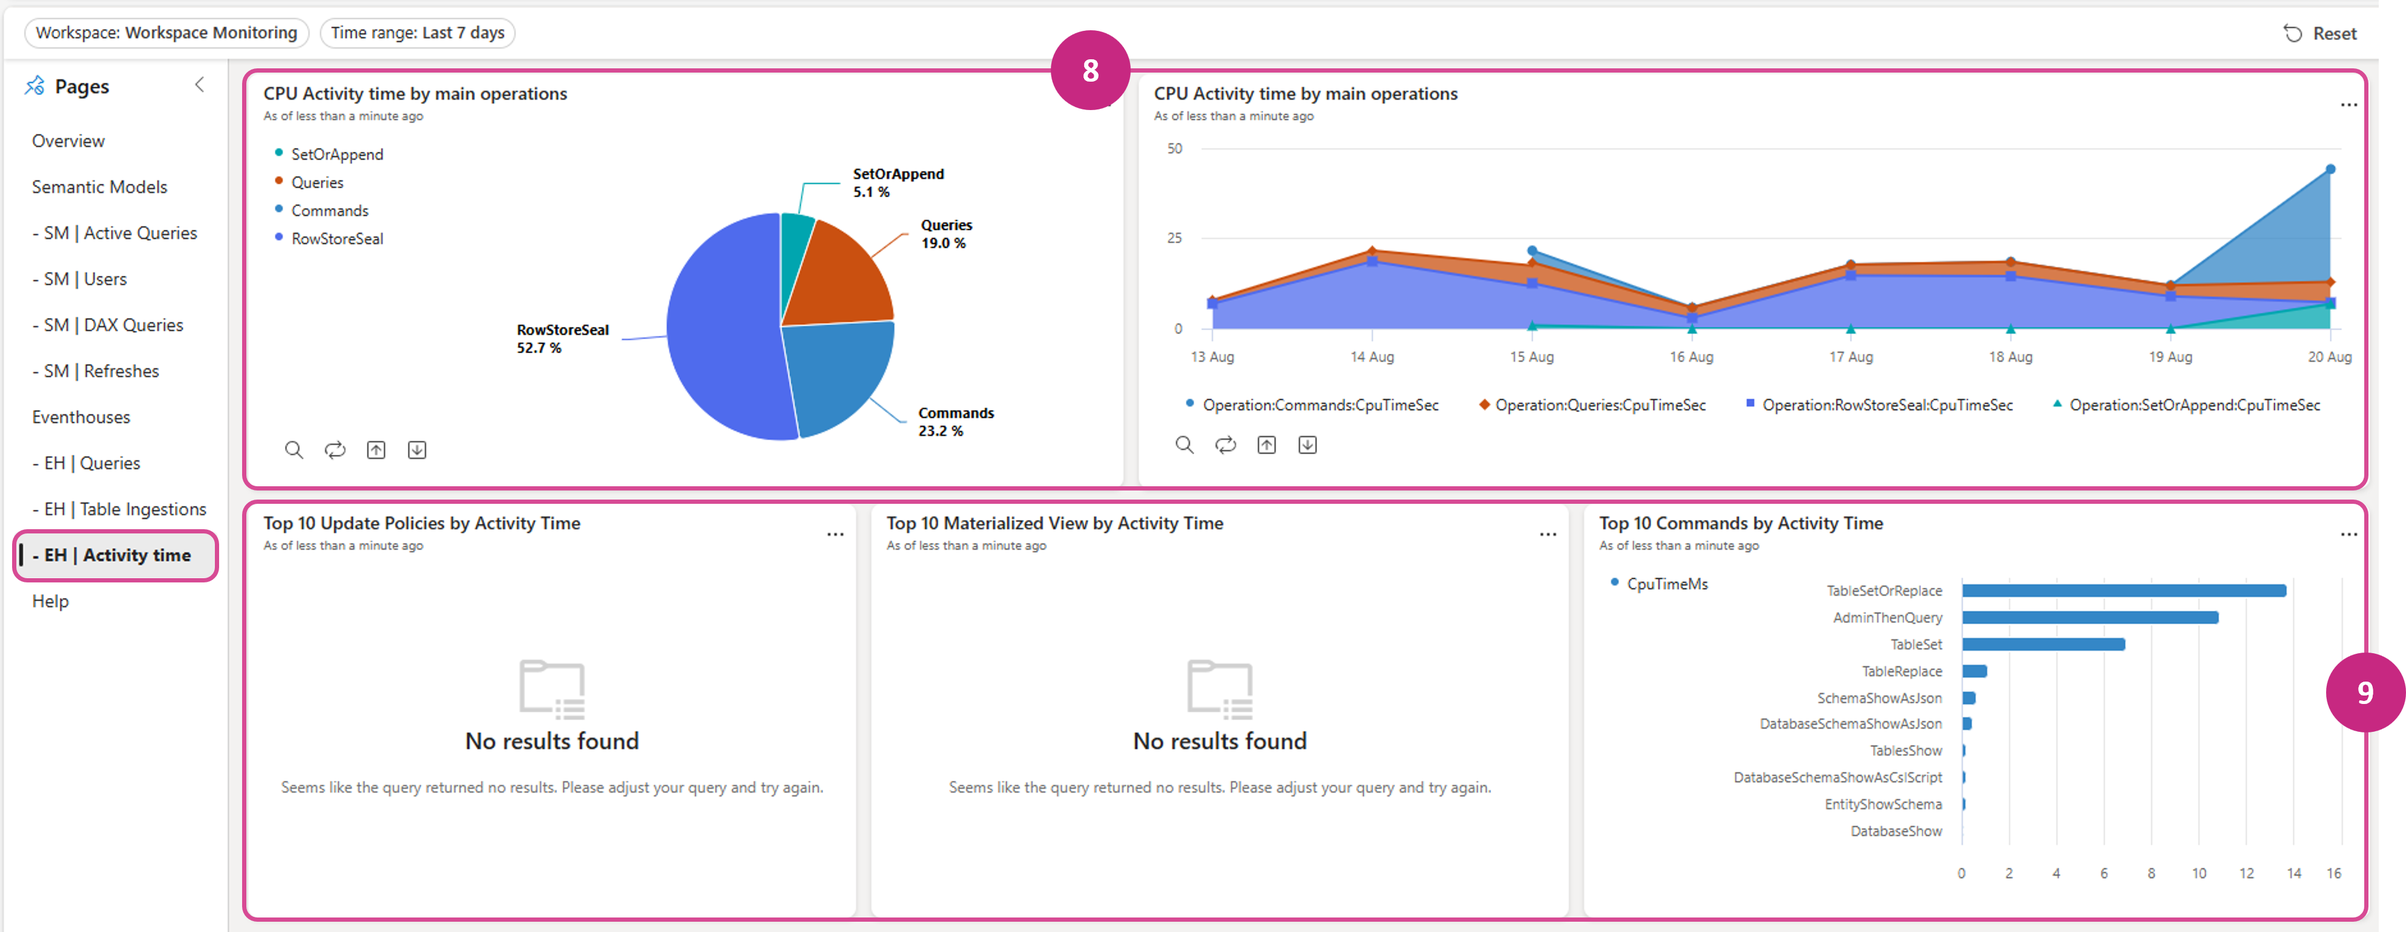
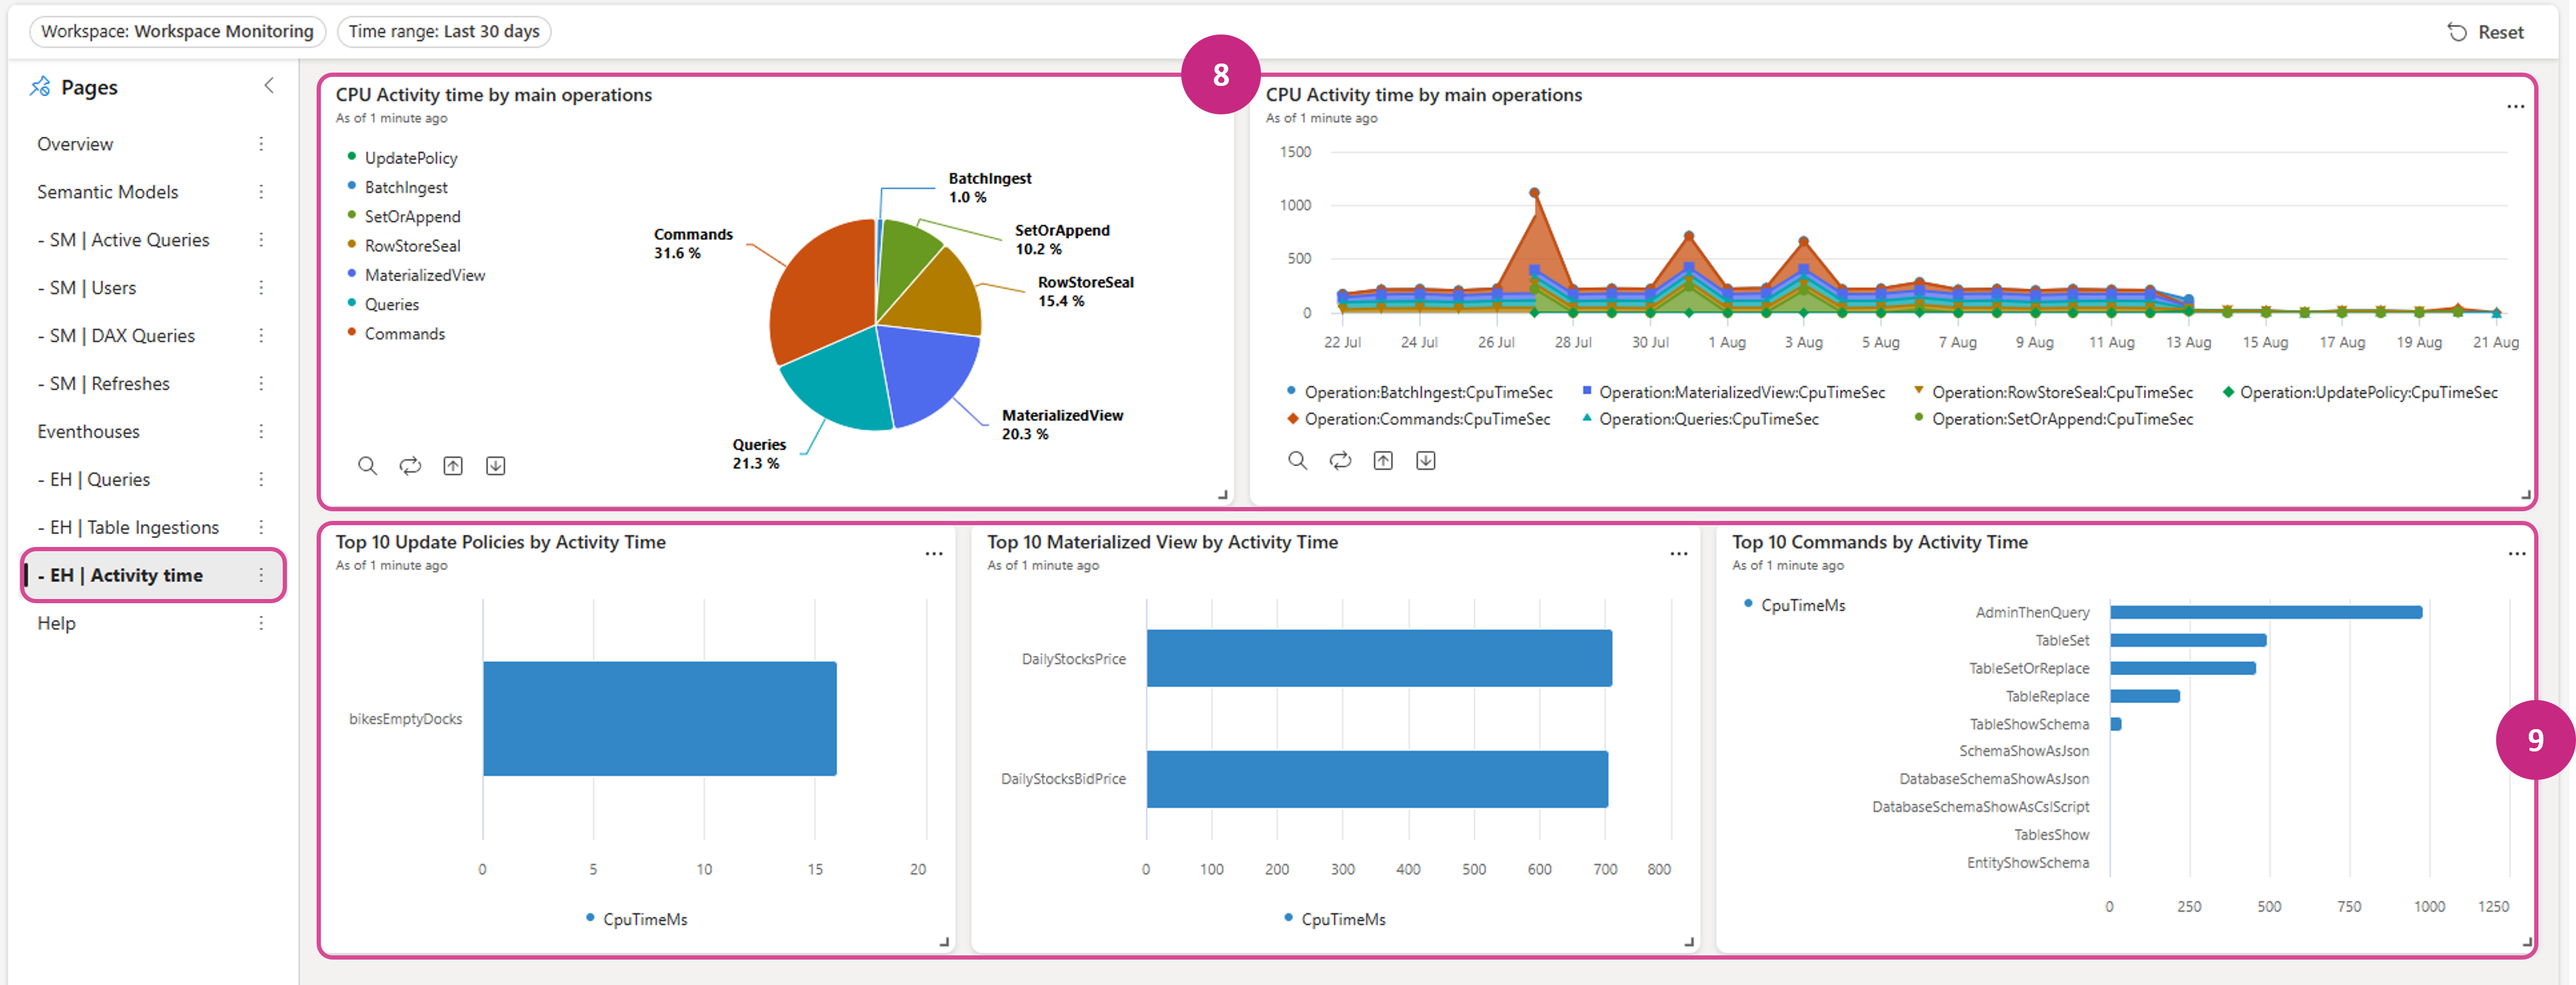
Updated Readme

diff --git a/monitoring/workspace-monitoring-dashboards/documentation/Workspace_Monitoring_RTI_Dashboard.md b/monitoring/workspace-monitoring-dashboards/documentation/Workspace_Monitoring_RTI_Dashboard.md
@@ -142,15 +142,71 @@ For such scenarios, the _Executing User_ determines the associted user for refre
 |---|---|
 |20.|Key insights of refreshes by semantic models by Operation end time.|
 
+
+**Very well done!**
+You finished the analytical pathway for semantic model analysis.
+
+------------------------------------------------------------------------------------------------
+
+
 ### Analytical Pathway | Eventhouse Analysis in near real-time
+
+
+Let's begin to analyse the Eventhouse related operations in this analytical pathway.
+
+#### Overview | Eventhouse KQL databases
+
+This dashboard page is your landing page to start analysis of Eventhouse KQL queries, batch/streamn ingestions and item activities. 
+
+>**Note**: The item activities/activity times within this analytical pathway determines the Eventhouse engine related activities. <br> Those activities are **not** the activity logs from the Fabric service. 
 
 ![Screenshot](/monitoring/workspace-monitoring-dashboards/media/documentation/rti/fwm_rti_ap_eh_0.png)
 
+|Step|Description|
+|---|---|
+|Info|The parameter _EventhouseName_ can filter the dashboard page visuals.|
+|1.|The top section of the dashboard page shows aggregated insights about queries from multiple point of views. |
+|2.|The bottom section of the dashboard page shows aggregated insights about batch and streaming ingestions from multiple point of views.|
+
+#### Queries | Eventhouse KQL databases
+
+The "EH | Queries" dashboard page focuses on the executed queries within the given time window for the selected workspace.
 
 ![Screenshot](/monitoring/workspace-monitoring-dashboards/media/documentation/rti/fwm_rti_ap_eh_1.png)
 
+|Step|Description|
+|---|---|
+|3.|The cards shows an aggregated view of executed queries against all the selected Eventhouse items. <br> The **Queries by status over time** visual shows the metric _QueriesCount_ by status over time, which determines the unique count of queries. <br> The **Cache Hit Misses % over time** visual contains the metric _CacheHitMissesPerc_, which is a calculated metric from 'Cold Cache Hits', 'Hot Cache Hits', 'Cold Cache Misses' and 'Hot Cache Misses' information. It helps you to understand the behavior of the query caches. _Hint: If you see an increase in Cache Hit misses check your Caching policy and the time ranges of your queries_ <br> The **Daily Query Duration (Sec) Percentile over time** visual shows the  _percentile_DurationSec_X_ metric. Currently there are three buckets are defined: _50 sec_, _75 sec_ and _90 sec_. |
+|4.|The **Most active users** visual provides you the unique query count by Executing User.|
+|5.|The table provides key metrics of each query operations. <br> _Hint: You can define the sorting rule of the table with the parameter 'Top Queries - table order by'_. |
+
+#### Table Ingestions | Eventhouse KQL databases
+
+The "EH | Table Ingestions" dashboard page focuses on the ingestion operations within the given time window for the selected workspace.
 
 ![Screenshot](/monitoring/workspace-monitoring-dashboards/media/documentation/rti/fwm_rti_ap_eh_2.png)
 
+|Step|Description|
+|---|---|
+|6.|The top section consolidates the key metrics for **batch** and **streaming** ingestions.|
+|7.|The bottom section provides details about ingestion results, failures, latencies. <br> _Hint: To see more granular details, you can filter the insights by KQL database with the parameter 'Database Name'_. |
+
+#### Activity time | Eventhouse KQL databases
+
+The "EH | Activity time" dashboard page focuses on the activity operations within the given time window for the selected workspace.
+
+>**Note**: The item activities/activity times within this analytical pathway determines the Eventhouse engine related activities. <br> Those activities are **not** the activity logs from the Fabric service. 
 
 ![Screenshot](/monitoring/workspace-monitoring-dashboards/media/documentation/rti/fwm_rti_ap_eh_3.png)
+
+|Step|Description|
+|---|---|
+|8.|CPU Activity times by operations and over time visuals show how the Eventhouses within the givne time windows for the selected workspace.|
+|9. |The bottom section provides CPU times for the following scenarios: <br> - Update policies <br> - Materialized Views <br> - Commands |
+
+
+
+**Very well done!**
+You finished the analytical pathway for Eventhouse analysis.
+
+------------------------------------------------------------------------------------------------
